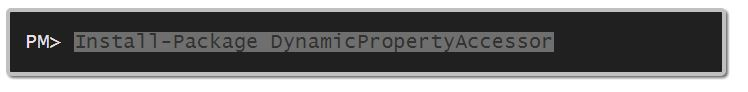
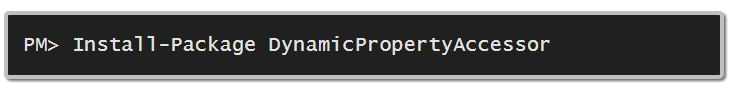
Initial Setup

Changed region(s): [[0.0, 0.087, 0.984, 0.8696]]

diff --git a/README.md b/README.md
@@ -1,1 +1,29 @@
 # DynamicPropertyAccessor
+
+
+
+![Performance Tests Picture](/ReadmeScreenshots/PerformanceTestResults.JPG?raw=true)
+
+
+
+##### Install from Nuget:
+
+
+
+![Nuget Install Picture](/ReadmeScreenshots/NugetInstall.JPG?raw=true)
+
+
+
+##### Add following to .cs file to access SetProperty and GetProperty methods:
+
+
+
+![Using Statement Picture](/ReadmeScreenshots/UsingStatement.JPG?raw=true)
+
+
+
+##### Examples of using SetProperty and GetProperty methods:
+
+
+
+![Examples of using SetProperty and GetProperty methods Picture](/ReadmeScreenshots/Example.JPG?raw=true)
